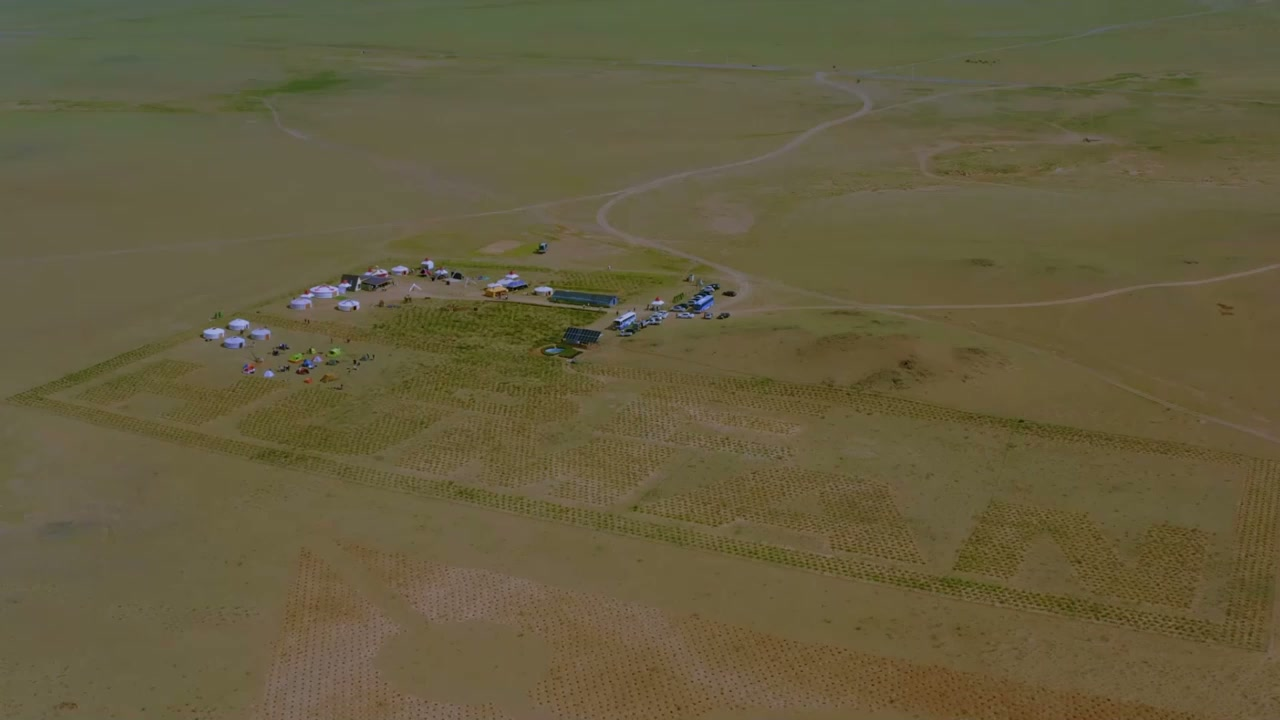
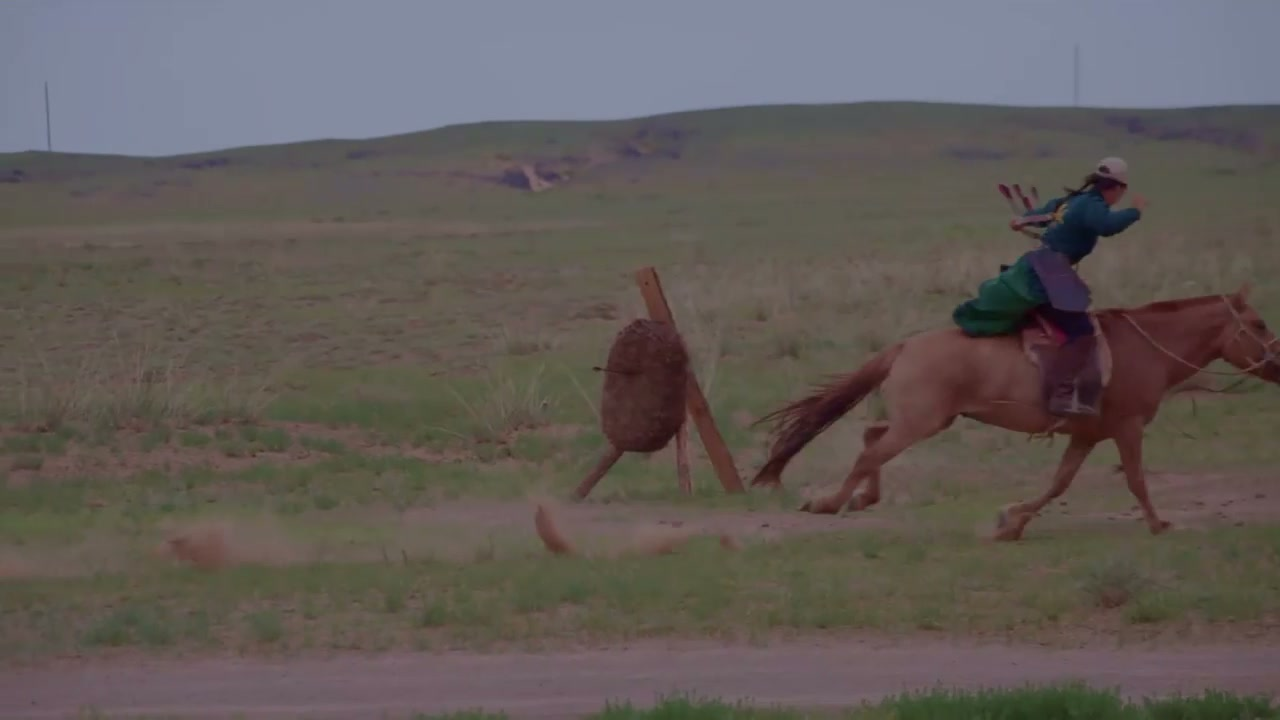
Refine films, events, Land Arts & Work Sequence sections
- Films: drop "Тоглуулах"/"Play" badges, enlarge film numbers, set
  Greenland-in-Gobi thumbnail at 0:46, add "2024" to Art N Tech card,
  shorten description to "Art & Technology", remove section caption.
- Land Arts: crop top brown strip from ART N TECH image.
- Work Sequence: rename ИНЖЕНЕРЧЛЭЛ → ДЭД БҮТЭЦ, swap step 09 (Fencing)
  and step 10 (Digging Tree Holes) so numbers run in order, move
  Installing Irrigation (13) into Plant phase, mark step 14 image as
  contain-fit so the full infographic stays visible, rename step 03 to
  "АЖЛЫН ЗУРАГ / Working Drawing".
- Events: GO ZERO 2022/2023 thumbnails refreshed; 2022 image fills the
  archive thumb; festival 2022/2025 thumbnails added (from year folder)
  and clipped to 16:9; PDF modal pages flush (no gaps); festival
  descriptions removed.
- HUD: vertical scan line hidden.
- Nav: hide "Харилцагч нэвтрэх / Client Login" entry on desktop and mobile.

diff --git a/index.html b/index.html
@@ -834,6 +834,7 @@ nav.nav--hidden{transform:translateY(-100%)}
 .step-img-wrap{position:relative;width:100%;height:220px;overflow:hidden;background:#0a1218}
 .step-img-wrap::after{content:'';position:absolute;inset:0;background:radial-gradient(circle at 0% 100%,rgba(0,140,220,0.55) 0%,rgba(0,80,180,0.3) 25%,transparent 55%);pointer-events:none;transition:opacity .4s;z-index:1}
 .step-img{display:block;width:100%;height:100%;object-fit:cover;transition:transform .6s}
+.step-img.contain{object-fit:contain;background:#0a1218}
 .step-card:hover .step-img{transform:scale(1.04)}
 .step-card:hover .step-img-wrap::after{opacity:.7}
 .step-card::before{content:'';position:absolute;inset:0;background:radial-gradient(400px circle at var(--mouse-x,50%) var(--mouse-y,50%),rgba(57,173,72,0.09),transparent 40%);opacity:0;transition:opacity .45s;pointer-events:none;z-index:0}
@@ -1059,6 +1060,7 @@ html[data-theme="light"] .tl-phase{background:#fff;border-color:rgba(31,97,40,0.
   border-bottom:1px solid rgba(57,173,72,0.14);overflow:hidden}
 .gz-archive-cover{position:absolute;inset:0;width:100%;height:100%;object-fit:contain;
   display:block;transition:transform .6s,filter .3s;filter:saturate(0.95) brightness(0.95)}
+.gz-archive-cover[src*="go-zero-2022"]{object-fit:cover}
 .gz-archive-card:hover .gz-archive-cover{transform:scale(1.03);filter:saturate(1) brightness(1)}
 .gz-archive-thumb-glyph{position:absolute;bottom:12px;right:14px;font-size:1.1rem;color:var(--green);z-index:2;
   text-shadow:0 0 12px rgba(57,173,72,0.5)}
@@ -1091,8 +1093,8 @@ html[data-theme="light"] .gz-archive-h{color:#1F6128}
   font-size:1rem;line-height:1;transition:background .2s,border-color .2s}
 .gz-modal-close:hover{background:rgba(57,173,72,0.08);border-color:var(--green)}
 .gz-modal-body{flex:1;min-height:0;background:#1a1a1a;position:relative;overflow:auto;-webkit-overflow-scrolling:touch;overscroll-behavior:contain}
-.gz-modal-pages{display:flex;flex-direction:column;gap:8px;padding:8px;margin:0 auto;max-width:1200px}
-.gz-modal-pages img{display:block;width:100%;height:auto;background:#fff;box-shadow:0 4px 20px rgba(0,0,0,0.4)}
+.gz-modal-pages{display:flex;flex-direction:column;gap:0;padding:0;margin:0 auto;max-width:1200px}
+.gz-modal-pages img{display:block;width:100%;height:auto;background:#fff}
 @media(max-width:720px){.gz-modal{padding:0}.gz-modal-inner{border:0}}
 html[data-theme="light"] .gz-modal{background:rgba(245,245,240,0.95)}
 html[data-theme="light"] .gz-modal-inner{background:#fff;border-color:rgba(31,97,40,0.3)}
@@ -1185,9 +1187,7 @@ html[data-theme="light"] .sector-num{color:rgba(31,97,40,0.06)}
 
 /* ── HUD VIEWBOX MOTION ──────────────────────────────── */
 /* Scan line sweeping through HUD */
-.hud-scanv{position:absolute;left:0;right:0;height:1px;top:0;z-index:20;pointer-events:none;
-  background:linear-gradient(to right,transparent 0%,rgba(57,173,72,0.55) 50%,transparent 100%);
-  animation:hud-vscan 6s linear infinite}
+.hud-scanv{display:none}
 @keyframes hud-vscan{0%{top:0;opacity:0}4%{opacity:1}96%{opacity:0.35}100%{top:100%;opacity:0}}
 /* Corner bracket decorations */
 .hud-cb{position:absolute;width:18px;height:18px;pointer-events:none}
@@ -1235,8 +1235,8 @@ html[data-theme="light"] .sector-num{color:rgba(31,97,40,0.06)}
 .film-poster-play iframe,.film-poster-play video{width:100%;height:100%;border:0;display:block;position:absolute;inset:0;background:#000;object-fit:contain}
 .film-badge.cyan{border-color:rgba(0,212,255,0.35);color:var(--cyan)}
 .film-buy-tag{position:absolute;bottom:12px;right:12px;font-size:0.4rem;letter-spacing:0.14em;padding:4px 10px;background:rgba(2,8,16,0.85);border:1px solid rgba(0,212,255,0.35);color:var(--cyan)}
-.film-info{padding:20px 20px 0;flex:1}
-.film-num{font-size:0.42rem;letter-spacing:0.22em;color:var(--green);margin-bottom:10px}
+.film-info{padding:20px 20px 24px;flex:1}
+.film-num{font-size:0.95rem;font-weight:700;letter-spacing:0.18em;color:var(--green);margin-bottom:14px}
 .film-num.cyan{color:var(--cyan)}
 .film-title{font-size:0.82rem;font-weight:700;color:var(--white);line-height:1.3;margin-bottom:10px}
 .film-sub{font-size:0.55rem;font-weight:300;color:var(--muted);line-height:1.7}
@@ -1698,7 +1698,7 @@ html[data-theme="light"] .sec-mg{opacity:0.28}
     <li><a href="#" onclick="openPanel('esg');return false;"><span class="mn">ESG</span><span class="en">ESG</span></a></li>
     <li><a href="#" onclick="openPanel('films');return false;"><span class="mn">Баримтат кино</span><span class="en">Films</span></a></li>
     <li><a href="#" onclick="openPanel('events');return false;"><span class="mn">Арга хэмжээ</span><span class="en">Events</span></a></li>
-    <li><a href="/portal.html" class="n-cta">▶ <span class="mn">ХАРИЛЦАГЧ НЭВТРЭХ</span><span class="en">CLIENT LOGIN</span></a></li>
+    <li style="display:none"><a href="/portal.html" class="n-cta">▶ <span class="mn">ХАРИЛЦАГЧ НЭВТРЭХ</span><span class="en">CLIENT LOGIN</span></a></li>
   </ul>
   <button id="lang-btn" onclick="toggleLang()">MN | EN</button>
   <button id="mob-menu-btn" aria-label="Menu" onclick="toggleMobMenu()">
@@ -1721,7 +1721,7 @@ html[data-theme="light"] .sec-mg{opacity:0.28}
       <li><a href="#" onclick="openPanel('esg');closeMobMenu();return false;"><span class="mob-num">04</span><span class="mob-label">ESG</span><span class="mob-arrow">→</span></a></li>
       <li><a href="#" onclick="openPanel('films');closeMobMenu();return false;"><span class="mob-num">05</span><span class="mob-label"><span class="mn">Баримтат кино</span><span class="en">Films</span></span><span class="mob-arrow">→</span></a></li>
       <li><a href="#" onclick="openPanel('events');closeMobMenu();return false;"><span class="mob-num">06</span><span class="mob-label"><span class="mn">Арга хэмжээ</span><span class="en">Events</span></span><span class="mob-arrow">→</span></a></li>
-      <li class="mob-cta-item"><a href="/portal.html" onclick="closeMobMenu()"><span class="mob-num">▶</span><span class="mob-label"><span class="mn">ХАРИЛЦАГЧ НЭВТРЭХ</span><span class="en">CLIENT LOGIN</span></span><span class="mob-arrow">→</span></a></li>
+      <li class="mob-cta-item" style="display:none"><a href="/portal.html" onclick="closeMobMenu()"><span class="mob-num">▶</span><span class="mob-label"><span class="mn">ХАРИЛЦАГЧ НЭВТРЭХ</span><span class="en">CLIENT LOGIN</span></span><span class="mob-arrow">→</span></a></li>
     </ul>
   </div>
   <div id="mob-menu-foot">
@@ -2690,15 +2690,15 @@ document.querySelectorAll('.prod-card,.pkg-wide').forEach(function(card){
         <span class="seq-tab-label"><span class="mn">СУДАЛГАА</span><span class="en">SURVEY</span></span>
       </button>
       <button class="seq-tab" data-phase="1">
-        <span class="seq-tab-num">05 — 08</span>
-        <span class="seq-tab-label"><span class="mn">ИНЖЕНЕРЧЛЭЛ</span><span class="en">ENGINEER</span></span>
+        <span class="seq-tab-num">05 — 09</span>
+        <span class="seq-tab-label"><span class="mn">ДЭД БҮТЭЦ</span><span class="en">INFRASTRUCTURE</span></span>
       </button>
       <button class="seq-tab" data-phase="2">
-        <span class="seq-tab-num">09 — 12</span>
+        <span class="seq-tab-num">10 — 13</span>
         <span class="seq-tab-label"><span class="mn">ТАРИЛТ</span><span class="en">PLANT</span></span>
       </button>
       <button class="seq-tab" data-phase="3">
-        <span class="seq-tab-num">13 — 16</span>
+        <span class="seq-tab-num">14 — 16</span>
         <span class="seq-tab-label"><span class="mn">ХЯНАЛТ</span><span class="en">MONITOR</span></span>
       </button>
     </div>
@@ -2727,7 +2727,7 @@ document.querySelectorAll('.prod-card,.pkg-wide').forEach(function(card){
         </div>
         <div class="step-card-body">
           <div class="step-num">03</div>
-              <div class="step-title"><span class="mn">ЛАНДШАФТЫН зураглал</span><span class="en">Site Mapping</span></div>
+              <div class="step-title"><span class="mn">АЖЛЫН ЗУРАГ</span><span class="en">Working Drawing</span></div>
         </div>
       </div>
       <div class="step-card">
@@ -2777,24 +2777,24 @@ document.querySelectorAll('.prod-card,.pkg-wide').forEach(function(card){
               <div class="step-title"><span class="mn">ХӨРС БОЛОВСРУУЛАЛТ</span><span class="en">SOIL CULTIVATION</span></div>
         </div>
       </div>
+      <div class="step-card">
+        <div class="step-img-wrap">
+          <img class="step-img" src="" data-src="assets/timeline/10.webp" alt="Step 09">
+        </div>
+        <div class="step-card-body">
+          <div class="step-num">09</div>
+              <div class="step-title"><span class="mn">ХАШААЖУУЛТ</span><span class="en">FENCING</span></div>
+        </div>
+      </div>
     </div>
     <div class="step-panel" data-phase="2">
       <div class="step-card">
         <div class="step-img-wrap">
-          <img class="step-img" src="" data-src="assets/timeline/09.webp" alt="Step 09">
-        </div>
-        <div class="step-card-body">
-          <div class="step-num">09</div>
-              <div class="step-title"><span class="mn">МОДНЫ НҮХ УХАЛТ</span><span class="en">DIGGING TREE HOLES</span></div>
-        </div>
-      </div>
-      <div class="step-card">
-        <div class="step-img-wrap">
-          <img class="step-img" src="" data-src="assets/timeline/10.webp" alt="Step 10">
+          <img class="step-img" src="" data-src="assets/timeline/09.webp" alt="Step 10">
         </div>
         <div class="step-card-body">
           <div class="step-num">10</div>
-              <div class="step-title"><span class="mn">ХАШААЖУУЛТ</span><span class="en">FENCING</span></div>
+              <div class="step-title"><span class="mn">МОДНЫ НҮХ УХАЛТ</span><span class="en">DIGGING TREE HOLES</span></div>
         </div>
       </div>
       <div class="step-card">
@@ -2815,8 +2815,6 @@ document.querySelectorAll('.prod-card,.pkg-wide').forEach(function(card){
               <div class="step-title"><span class="mn">МОД ТАРИХ</span><span class="en">PLANTING TREES</span></div>
         </div>
       </div>
-    </div>
-    <div class="step-panel" data-phase="3">
       <div class="step-card">
         <div class="step-img-wrap">
           <img class="step-img" src="" data-src="assets/timeline/13.webp" alt="Step 13">
@@ -2826,9 +2824,11 @@ document.querySelectorAll('.prod-card,.pkg-wide').forEach(function(card){
               <div class="step-title"><span class="mn">УСАЛГААНЫ СИСТЕМ УГСРАХ</span><span class="en">INSTALLING AN IRRIGATION SYSTEM</span></div>
         </div>
       </div>
+    </div>
+    <div class="step-panel" data-phase="3">
       <div class="step-card">
         <div class="step-img-wrap">
-          <img class="step-img" src="" data-src="assets/timeline/14.webp" alt="Step 14">
+          <img class="step-img contain" src="" data-src="assets/timeline/14.webp" alt="Step 14">
         </div>
         <div class="step-card-body">
           <div class="step-num">14</div>
@@ -3244,7 +3244,7 @@ document.querySelectorAll('.prod-card,.pkg-wide').forEach(function(card){
       <div class="gz-archive-grid">
         <button class="gz-archive-card" type="button" data-pdf="assets/gozero/go-zero-2022.pdf" data-title="GO ZERO 2022">
           <div class="gz-archive-thumb">
-            <img class="gz-archive-cover" src="assets/gozero/go-zero-2022.jpg" alt="GO ZERO 2022 cover" loading="lazy">
+            <img class="gz-archive-cover" src="assets/gozero/go-zero-2022.jpg?v=2" alt="GO ZERO 2022 cover" loading="lazy">
             <div class="gz-archive-thumb-glyph">◧</div>
           </div>
           <div class="gz-archive-info">
@@ -3254,7 +3254,7 @@ document.querySelectorAll('.prod-card,.pkg-wide').forEach(function(card){
         </button>
         <button class="gz-archive-card" type="button" data-pdf="assets/gozero/go-zero-2023.pdf" data-title="GO ZERO 2023">
           <div class="gz-archive-thumb">
-            <img class="gz-archive-cover" src="assets/gozero/go-zero-2023.jpg" alt="GO ZERO 2023 cover" loading="lazy">
+            <img class="gz-archive-cover" src="assets/gozero/go-zero-2023.jpg?v=2" alt="GO ZERO 2023 cover" loading="lazy">
             <div class="gz-archive-thumb-glyph">◧</div>
           </div>
           <div class="gz-archive-info">
@@ -3289,14 +3289,13 @@ document.querySelectorAll('.prod-card,.pkg-wide').forEach(function(card){
       <div class="prod-grid cols-2">
         <div class="prod-card accent-cyan" onmousemove="this.style.setProperty('--mx',event.offsetX+'px');this.style.setProperty('--my',event.offsetY+'px')">
           <div class="prod-tag lg">ART N TECH FESTIVAL 2022</div>
-          <video class="ate-video" controls preload="metadata" playsinline poster="assets/ate/art-n-tech-2022.png" style="width:100%;display:block;margin-top:14px;background:#000">
+          <video class="ate-video" controls preload="metadata" playsinline poster="assets/ate/festival-2022.jpg" style="width:100%;aspect-ratio:16/9;display:block;margin-top:14px;background:#000;object-fit:cover">
             <source src="assets/ate/green-land-in-gobi-2022.mp4" type="video/mp4">
           </video>
-          <p class="prod-desc" style="margin-top:14px"><span class="mn">"Green Land in Gobi" — 2022 оны наадмын тойм видео.</span><span class="en">"Green Land in Gobi" — 2022 festival highlights.</span></p>
         </div>
         <div class="prod-card accent-cyan" onmousemove="this.style.setProperty('--mx',event.offsetX+'px');this.style.setProperty('--my',event.offsetY+'px')">
           <div class="prod-tag lg">ART N TECH FESTIVAL 2025</div>
-          <p class="prod-desc"><span class="mn">2025 оны наадмын мэдээлэл удахгүй нэмэгдэнэ.</span><span class="en">2025 festival details coming soon.</span></p>
+          <img src="assets/ate/festival-2025.jpg" alt="ART N TECH Festival 2025" loading="lazy" style="width:100%;aspect-ratio:16/9;display:block;margin-top:14px;background:#000;object-fit:cover">
         </div>
       </div>
     </div>
@@ -3336,7 +3335,6 @@ document.querySelectorAll('.prod-card,.pkg-wide').forEach(function(card){
         <div class="sl"><span class="mn">Говий · Урлаг · Технологи</span><span class="en">Gobi · Art · Technology</span></div>
         <h2 class="st"><span class="mn">БАРИМТАТ <em>КИНО</em></span><span class="en">DOCUMENTARY <em>FILMS</em></span></h2>
       </div>
-      <p style="font-size:0.6rem;font-weight:300;color:var(--muted);max-width:260px;text-align:right;line-height:1.8"><span class="mn">Шамбала 2056-ийн 3 баримтат кино — Говийн сэргэлт, урлаг, технологийн уулзварт бүтээгдсэн</span><span class="en">3 documentaries from Shambala 2056 — created at the intersection of Gobi restoration, art and technology</span></p>
     </div>
 
     <div class="films-grid">
@@ -3345,7 +3343,6 @@ document.querySelectorAll('.prod-card,.pkg-wide').forEach(function(card){
       <div class="film-card" data-video="assets/films/building-gobi-future-2.mp4" data-poster="assets/films/building-gobi-future-2.jpg">
         <div class="film-poster film-poster-play" role="button" tabindex="0" aria-label="Видео тоглуулах">
           <img src="assets/films/building-gobi-future-2.jpg" alt="Говийн ирээдүйг бүтээх нь 2.0" loading="lazy">
-          <div class="film-badge">▶ <span class="mn">Тоглуулах</span><span class="en">Play</span></div>
           <div class="film-play-btn" aria-hidden="true">▶</div>
         </div>
         <div class="film-info">
@@ -3357,10 +3354,9 @@ document.querySelectorAll('.prod-card,.pkg-wide').forEach(function(card){
 
     
       <!-- 02· Re-Generation: Greenland in Gobi -->
-      <div class="film-card" data-video="assets/ate/green-land-in-gobi-2022.mp4" data-poster="assets/films/green-land-in-gobi-2022.jpg">
+      <div class="film-card" data-video="assets/ate/green-land-in-gobi-2022.mp4" data-poster="assets/films/green-land-in-gobi-2022.jpg?v=3">
         <div class="film-poster film-poster-play" role="button" tabindex="0" aria-label="Видео тоглуулах">
-          <img src="assets/films/green-land-in-gobi-2022.jpg" alt="Greenland in Gobi" loading="lazy">
-          <div class="film-badge">▶ <span class="mn">Тоглуулах</span><span class="en">Play</span></div>
+          <img src="assets/films/green-land-in-gobi-2022.jpg?v=3" alt="Greenland in Gobi" loading="lazy">
           <div class="film-play-btn" aria-hidden="true">▶</div>
         </div>
         <div class="film-info">
@@ -3373,13 +3369,12 @@ document.querySelectorAll('.prod-card,.pkg-wide').forEach(function(card){
       <div class="film-card" data-video="assets/films/art-n-tech-teaser.mp4" data-poster="assets/films/art-n-tech-teaser.jpg">
         <div class="film-poster film-poster-play" role="button" tabindex="0" aria-label="Видео тоглуулах">
           <img src="assets/films/art-n-tech-teaser.jpg" alt="Art N Tech" loading="lazy">
-          <div class="film-badge">▶ <span class="mn">Тоглуулах</span><span class="en">Play</span></div>
           <div class="film-play-btn" aria-hidden="true">▶</div>
         </div>
         <div class="film-info">
-          <div class="film-num">03</div>
+          <div class="film-num">03 · 2024</div>
           <div class="film-title">ART N TECH</div>
-          <div class="film-sub"><span class="mn">Шамбала2056 · Нүүдэлчдийн урлаг ба технологийн наадам · Баримтат кино</span><span class="en">Shambala2056 · Nomadic art & technology festival · Documentary</span></div>
+          <div class="film-sub"><span class="mn">Урлаг ба Технологи</span><span class="en">Art &amp; Technology</span></div>
         </div>
       </div>
 
